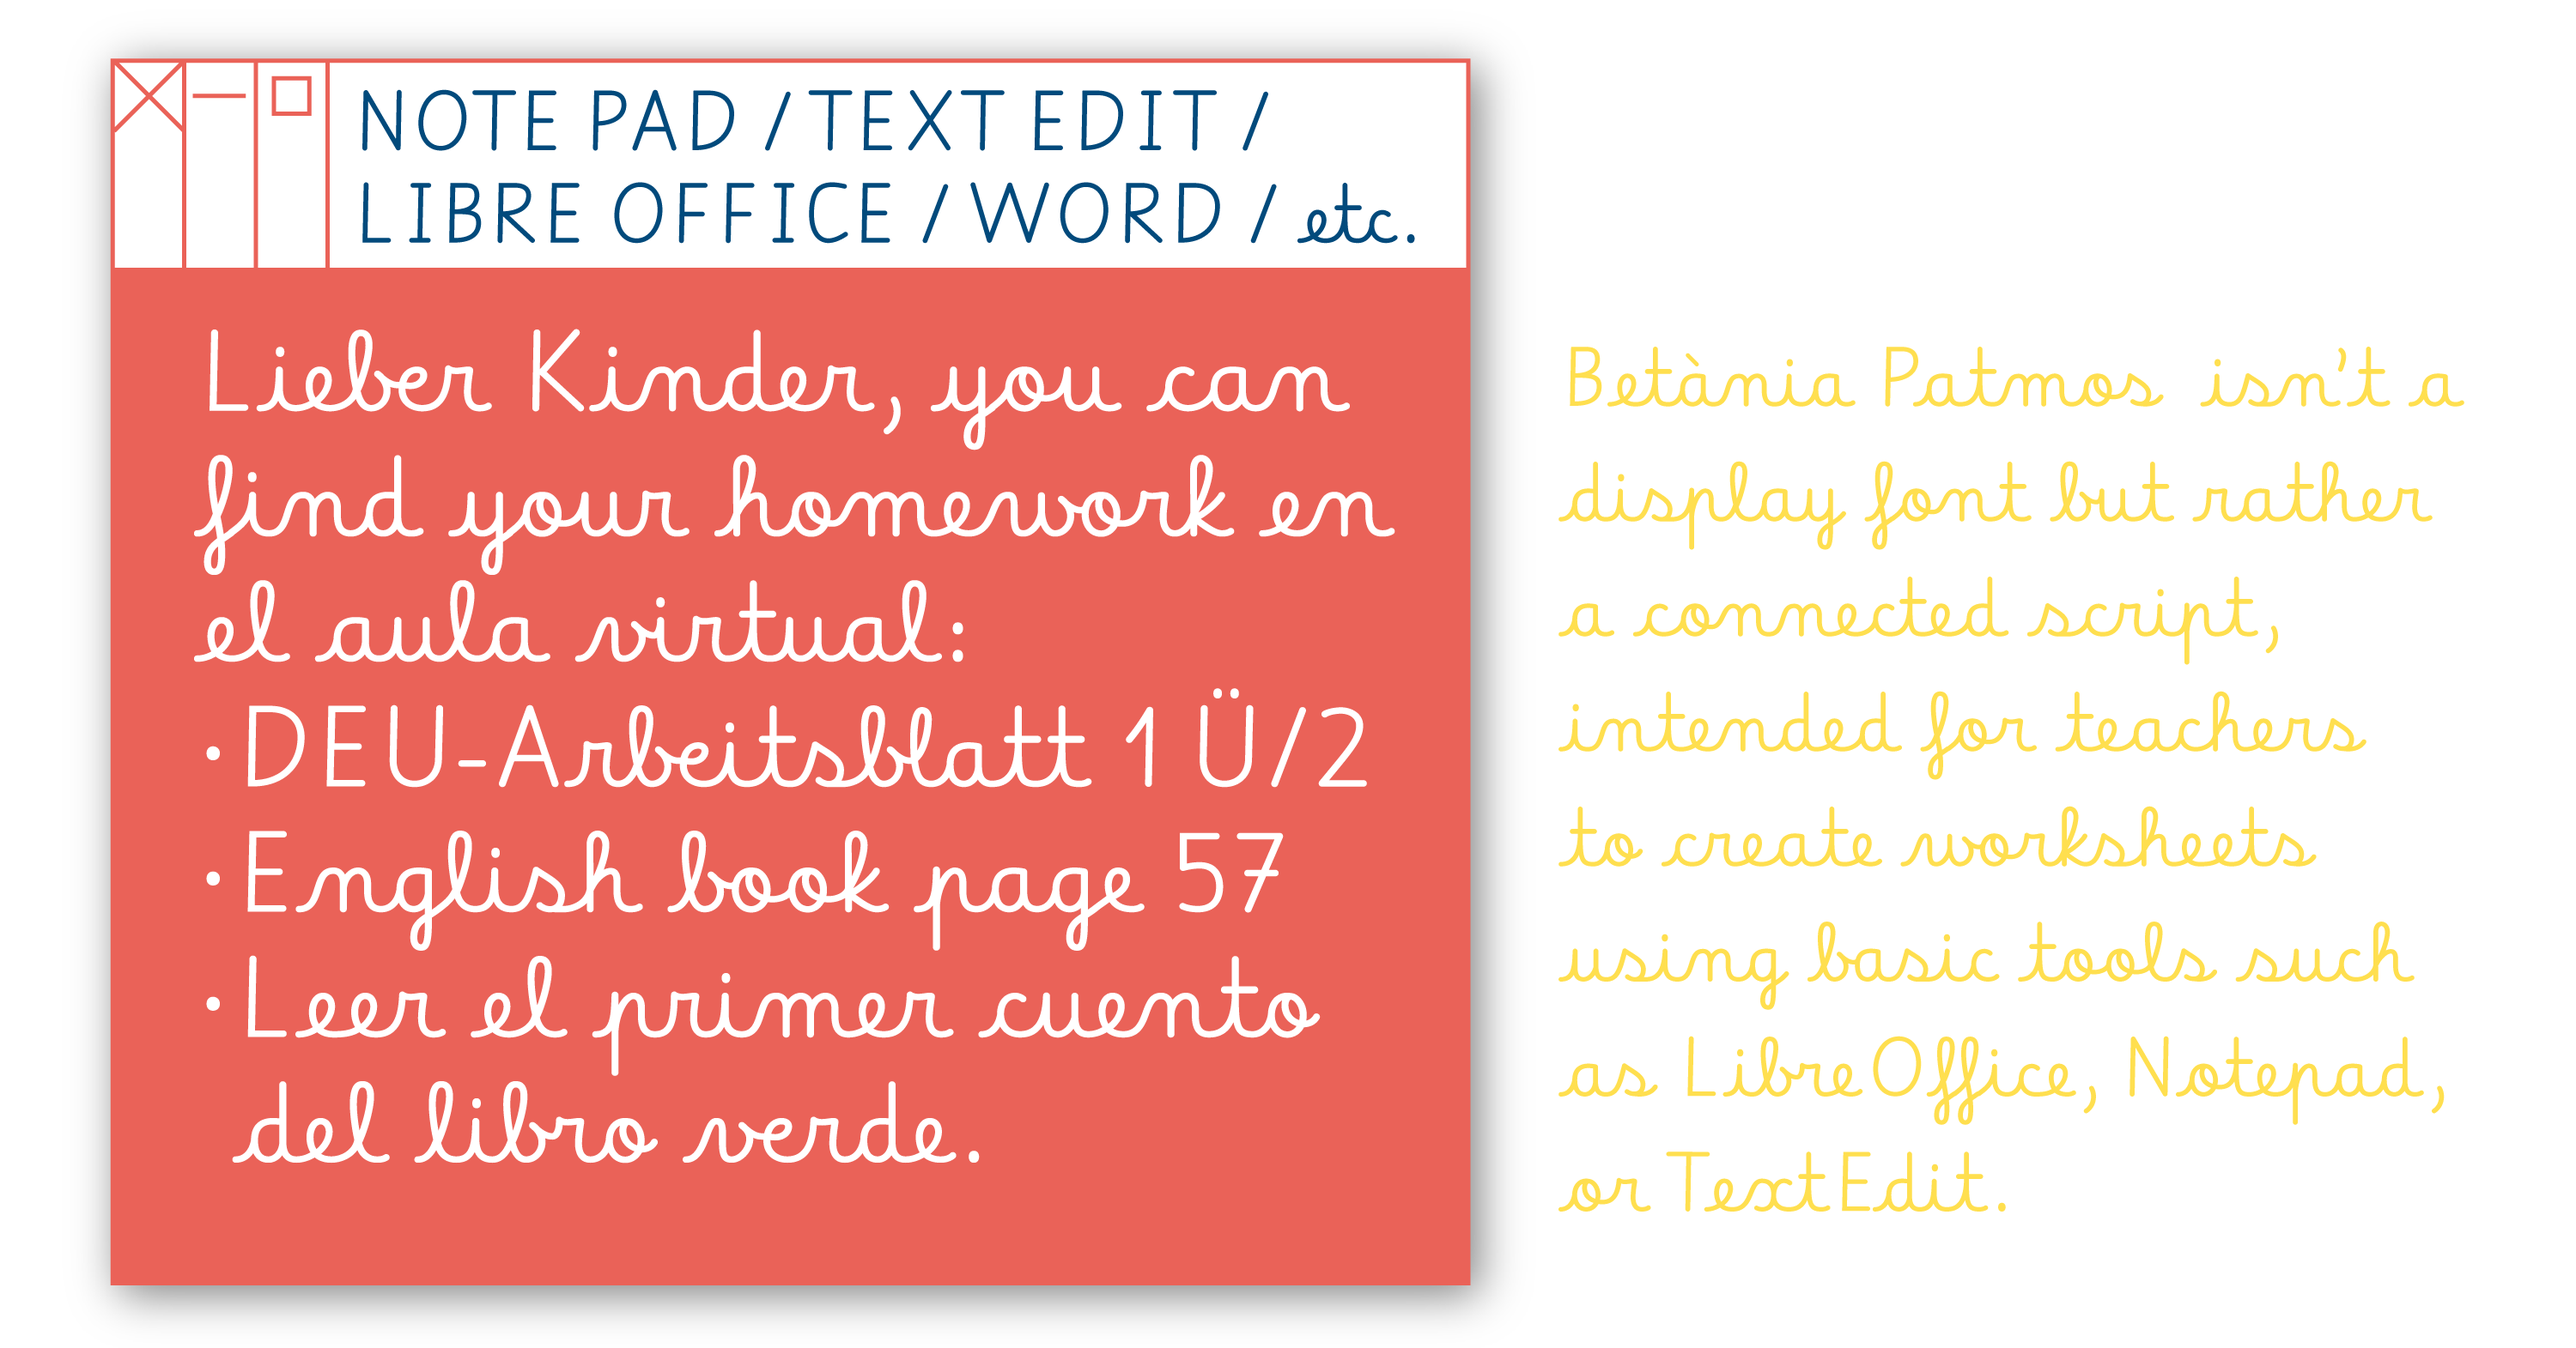
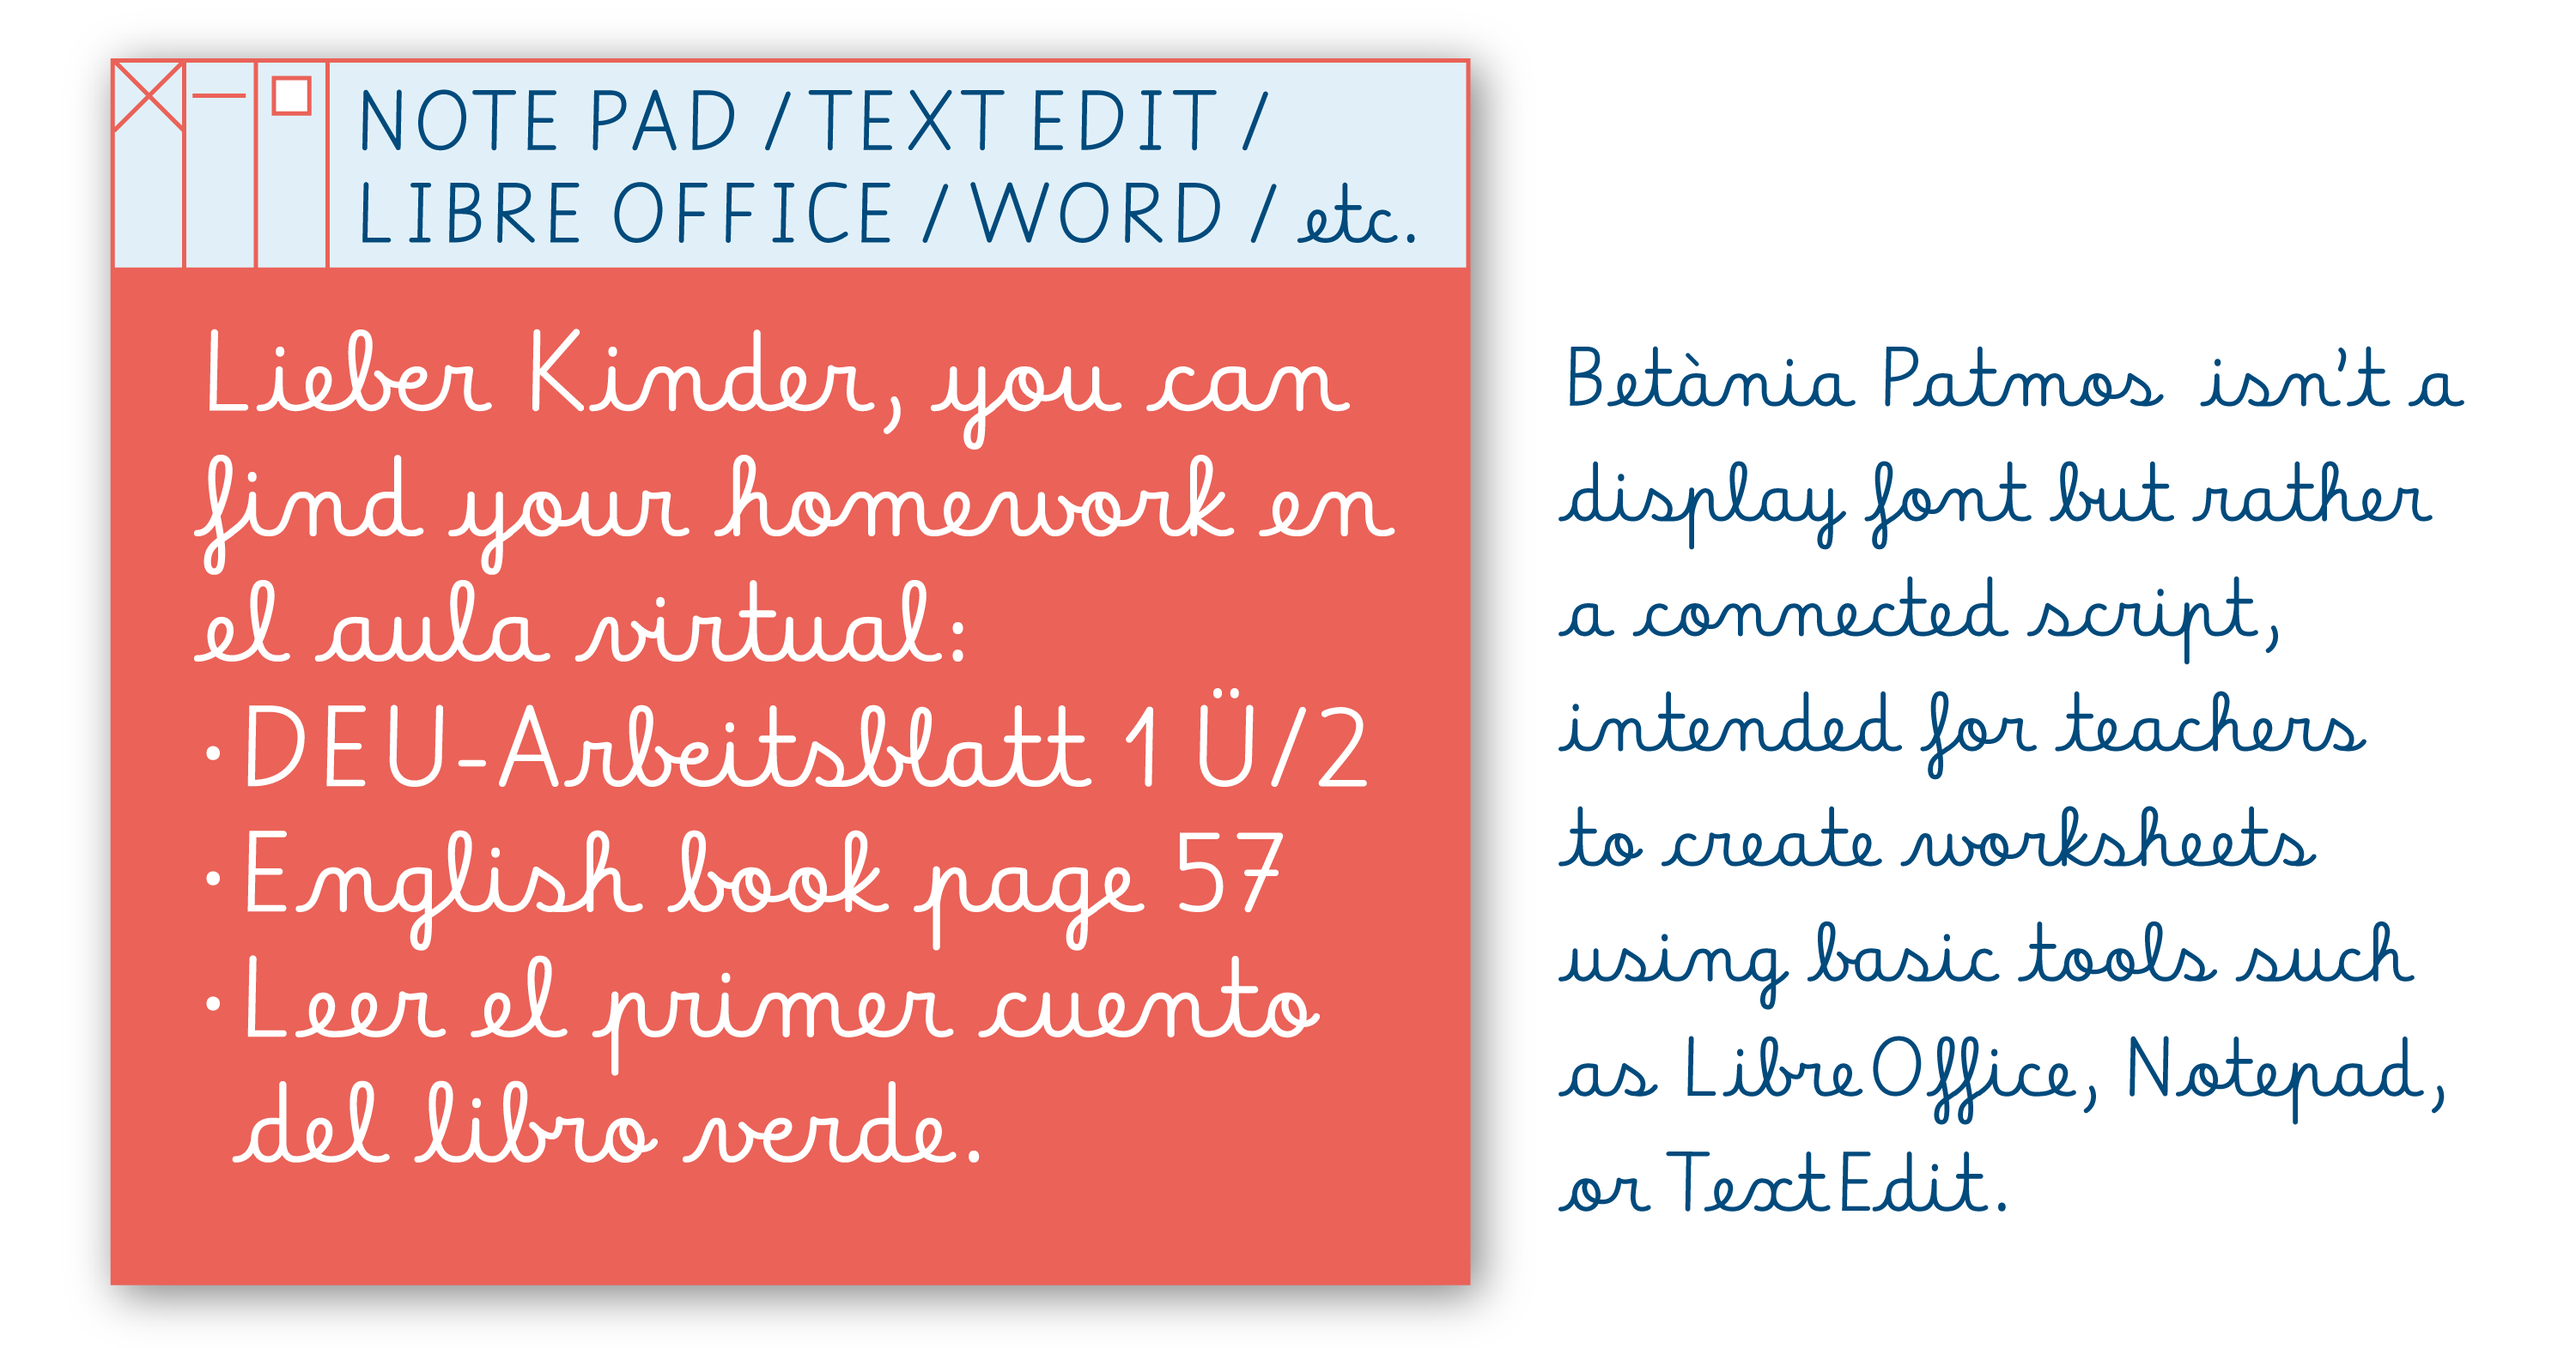
add img corregir colore

diff --git a/index.html b/index.html
@@ -158,7 +158,7 @@
 
         <!-- •••••••••••••••••••••••••••••••••••••• -->
 
-        <article class="color6">
+        <article class="color8">
 
               <figure><img src="./img/bp_notepad.png" alt="you can use this font in notepad"></figure>
             </div>

diff --git a/style.css b/style.css
@@ -132,6 +132,10 @@ blockquote p {
     padding: 20px 0 20px 0;
 }
 
+.color9{
+    background: #B7DA9B;      /*verde*/
+    padding: 20px 0 20px 0;
+}
 .verde2 {
 background: rgb(62,168,152);
 background: linear-gradient(90deg, rgba(62,168,152,1) 49%, rgba(130,192,184,1) 51%);
